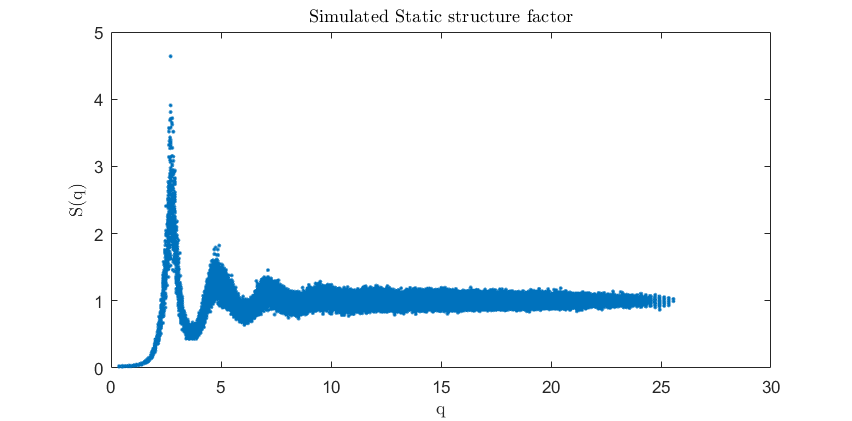
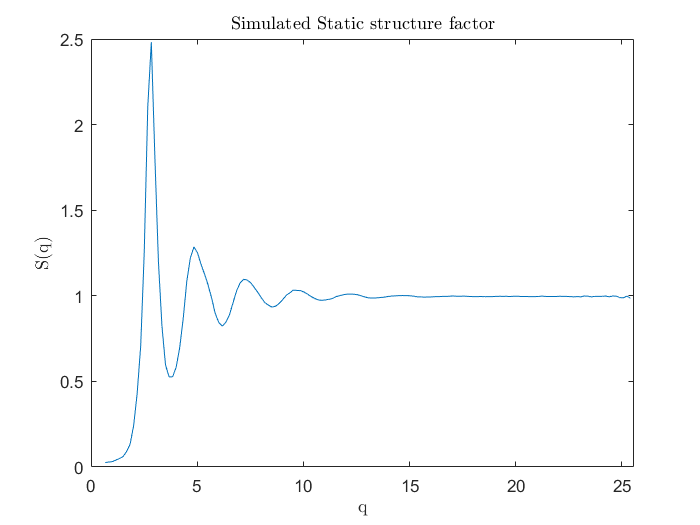
Task 8 done

diff --git a/report/report.tex b/report/report.tex
@@ -176,9 +176,28 @@ With Matlab we find that the first local minimum is localized at $r_m = 3.7797$,
 
 \section*{Problem 8}
 
-In Problem 8 we were, once again, tasked to examine the aluminium particles at 700$^\circ$ C and 1 atm. This time we examined the static structure factor $S(q)$ through 2 different methods; by integrating the result from the previous problem in accordance to Eq. (58) in \cite{lecnotes} and by simulating the system and evaluating Eq. (55) in \cite{lecnotes}.
+One way to see that the crystal is properly melted is by studying the scattering of an incoming beam. This can be studied through the reciprocal vectors, which when coincides with the incoming beam's wavevectors contributes to the structure factor \cite{kittel},
 
-Below (Fig.~\ref{fig:StaticStructure}) are two plots showing the approximations of the static structure function. The leftmost figure is obtained by integrating the result from Problem 7 and the rightmost one is obtained via simulation. 
+\begin{equation}
+S(\mathbf{q})=\frac{1}{N}\left<|\sum_{i=1}^{N}e^{i\mathbf{q}\cdot \mathbf{r_i}(t)}|^2\right>\cite{lecnotes},
+\end{equation}
+
+where $\mathbf{q}$ are the reciprocal vectors and $r_i(t)$ is the trajectories of the particles. The reciprocal lattice is initialized on a grid with side-length $2\pi/L$, where $L$ is the cell length, so that the reciprocal lattice can be written as,
+$$
+	\mathbf{q}=\frac{2\pi}{L}(n_x,n_y,n_z),
+$$
+
+where $n_x$, $n_y$ and $n_z$ are some integers. For our simulation we use $n_x=n_y=n_z=\pm40$, so the lattice points are some combination of $3$ numbers between $-40$ to $40$.
+
+The results of this simulation can be seen in (Fig.~\ref{fig:StaticStructure}) where we only consider the length of the reciprocal vectors, not their direction, i.e. we have plotted the spherical mean.
+
+In a crystalline solid the expression given above will only contain delta-function distribution contributions for the reciprocal vectors. But for a liquid we have a continuous contribution which depend on the radial distribution seen in Problem 7. Using this distribution we can write the form factor as,
+
+\begin{equation}
+S(q)= 1+ 4\pi n \int r^2\left[g(r)-1\right]\frac{\sin{qr}}{qr}dr.
+\end{equation}
+
+Direct evaluation of this integral, for the same $q$ values as the simulation, using only half maximum distance in (Fig. \ref{fig:radial}) in the radial integral to not get boundary condition problems, gives a very similar result to the $q-$grid evaluation as seen in (Fig.~\ref{fig:StaticStructure}).
 
 \begin{figure}[H]
     \centering
@@ -194,6 +213,8 @@ Below (Fig.~\ref{fig:StaticStructure}) are two plots showing the approximations 
     \caption{The static structure function computed both from the radial distribution function in Figure \ref{fig:radial} (left) and using bins in Fourier space (right).}
     \label{fig:StaticStructure}
 \end{figure}
+
+
 
 
 \section*{Concluding discussion}
@@ -224,32 +245,11 @@ Below (Fig.~\ref{fig:StaticStructure}) are two plots showing the approximations 
 
 \subsection{\texttt{Task7/MD\_main.c}}
 \lstinputlisting[language=c, numbers=left]{../code/Task7/MD_main.c}
+\lstinputlisting[language=matlab,numbers=left]{../code/Task7/plot_histogram.m}
 
 \subsection{\texttt{Task8/MD\_main.c}}
 \lstinputlisting[language=c, numbers=left]{../code/Task8/MD_main.c}
+\lstinputlisting[language=matlab,numbers=left]{../code/Task8/plot_reciprocal.m}
+\lstinputlisting[language=matlab,numbers=left]{../code/Task8/plot_integral.m}
 \lstinputlisting[language=c, numbers=left]{../code/Task8/alpotential.c}
-
-
-
-
-\begin{comment}
-\appendix
-
-\section{Source Code}
-
-Include all source code here in the appendix. Keep the code formatting clean,
-use indentation, and comment your code to make it easy to understand. Also,
-break lines that are too long. (Keep them under 80 characters!)
-
-\subsection{Calculating pi using matlab: \texttt{pi.m}}
-\lstinputlisting[language=matlab,numbers=left]{template_files/pi.m}
-
-\subsection{Calculating pi using python: \texttt{pi.py}}
-\lstinputlisting[language=python,numbers=left]{template_files/pi.py}
-
-\subsection{Calculating pi using C: \texttt{pi.c}}
-\lstinputlisting[language=c,numbers=left]{template_files/pi.c}
-
-\end{comment}
-
 \end{document}

diff --git a/code/Task8/plot_reciprocal.m b/code/Task8/plot_reciprocal.m
@@ -1,0 +1,47 @@
+% Plot the static structure factor using data from
+% reciprocal lattice vectors
+clear all
+
+data = importdata('sq.dat');
+
+% plot
+figure;
+
+% Remove the delta-distribution at distance zero
+z=find(data(:,3)==0);
+data(z,:)=[];
+
+% Sort data after distance to centre
+[sortedData,sortedIndex]=sort(data(:,3));
+sortedData(:,2)=data(sortedIndex,2)+data(sortedIndex,1);
+
+nBins=150;
+
+maxBin = max(data(1,:));
+minBin = min(data(1,:));
+deltaBin = (maxBin-minBin)/nBins;
+
+% Average in all radial bins
+totBin=zeros(2,nBins);
+idx=1;
+for i=1:nBins
+    totBin(1,i)=minBin+deltaBin*i;
+    nCurrentBin=0;
+    currentQ=sortedData(idx,1);
+
+    while currentQ < totBin(1,i)
+        nCurrentBin = nCurrentBin+1;
+        totBin(2,i)=totBin(2,i)+sortedData(idx,2);
+        idx=idx+1;
+        currentQ=sortedData(idx,1);
+    end
+    totBin(2,i)= totBin(2,i)/nCurrentBin;
+end
+
+plot(totBin(1,:),totBin(2,:),'-')
+
+xlim([0, totBin(1,end)])
+
+title('Simulated Static structure factor','interpreter','latex')
+xlabel('q','interpreter','latex')
+ylabel('S(q)','interpreter','latex')
